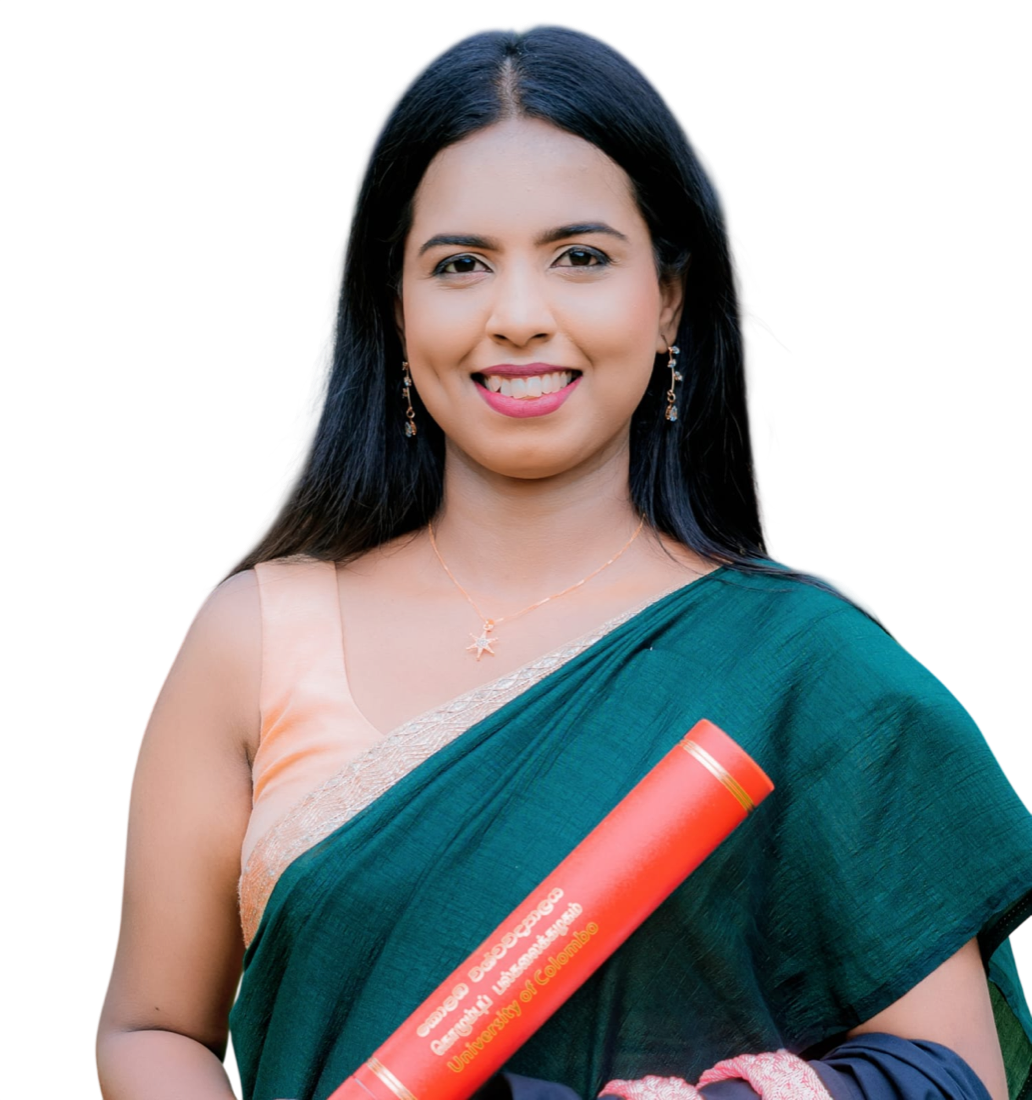
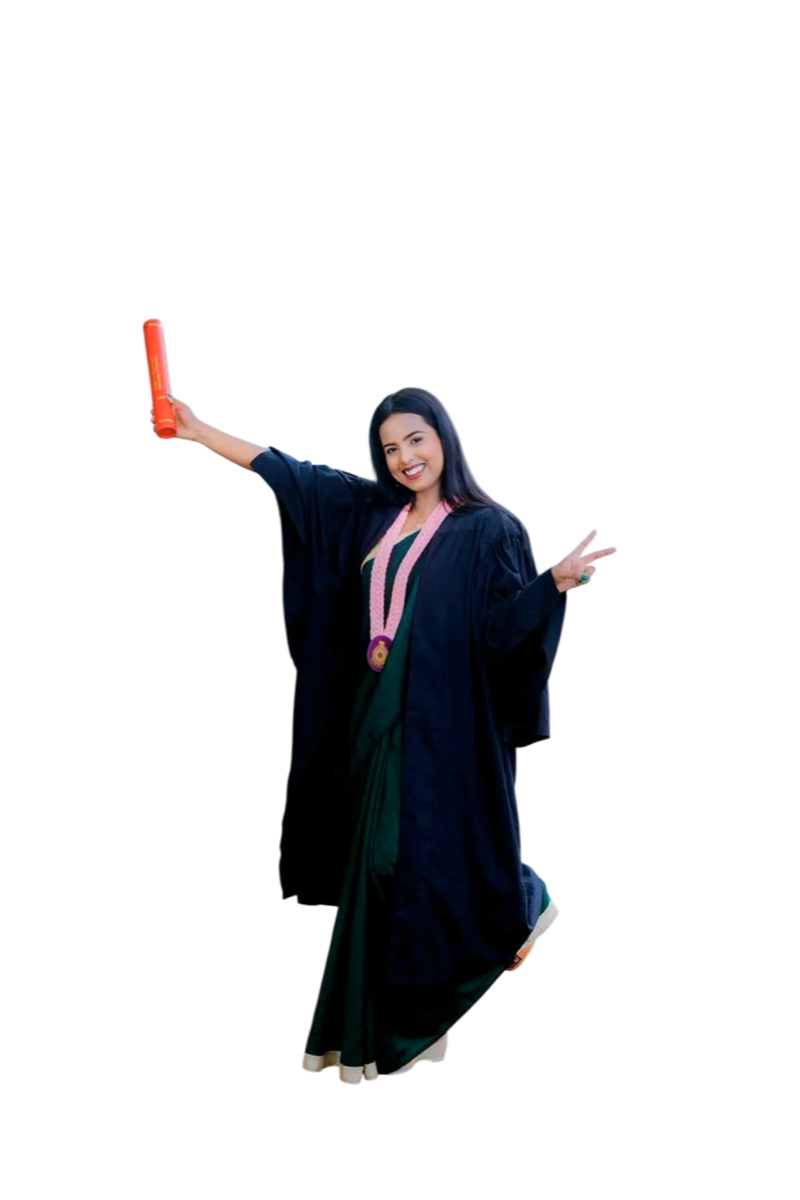
Adding hero image and about images

diff --git a/src/data/site.ts b/src/data/site.ts
@@ -59,7 +59,7 @@ export const site = {
   // To use a real image, drop the file in public/images/ and set the path here,
   // e.g. hero: '/images/hero.jpg'
   images: {
-    hero: '', // full-bleed background behind the name on the homepage
+    hero: '/images/hero.png', // blended banner image shown beside the name on the homepage
     portrait: '/images/aboutme-image.png', // portrait shown in the "About Me" section
   },
 